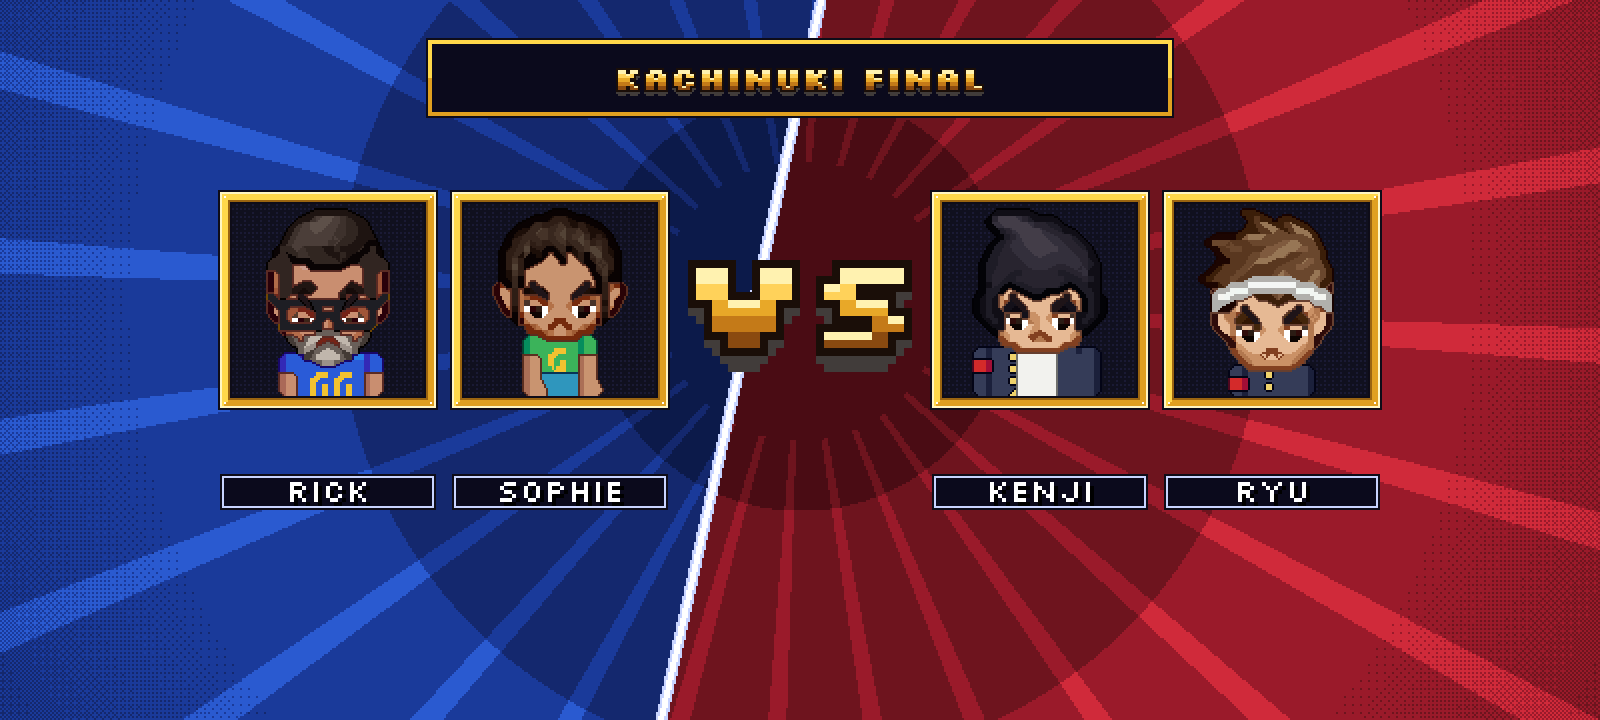
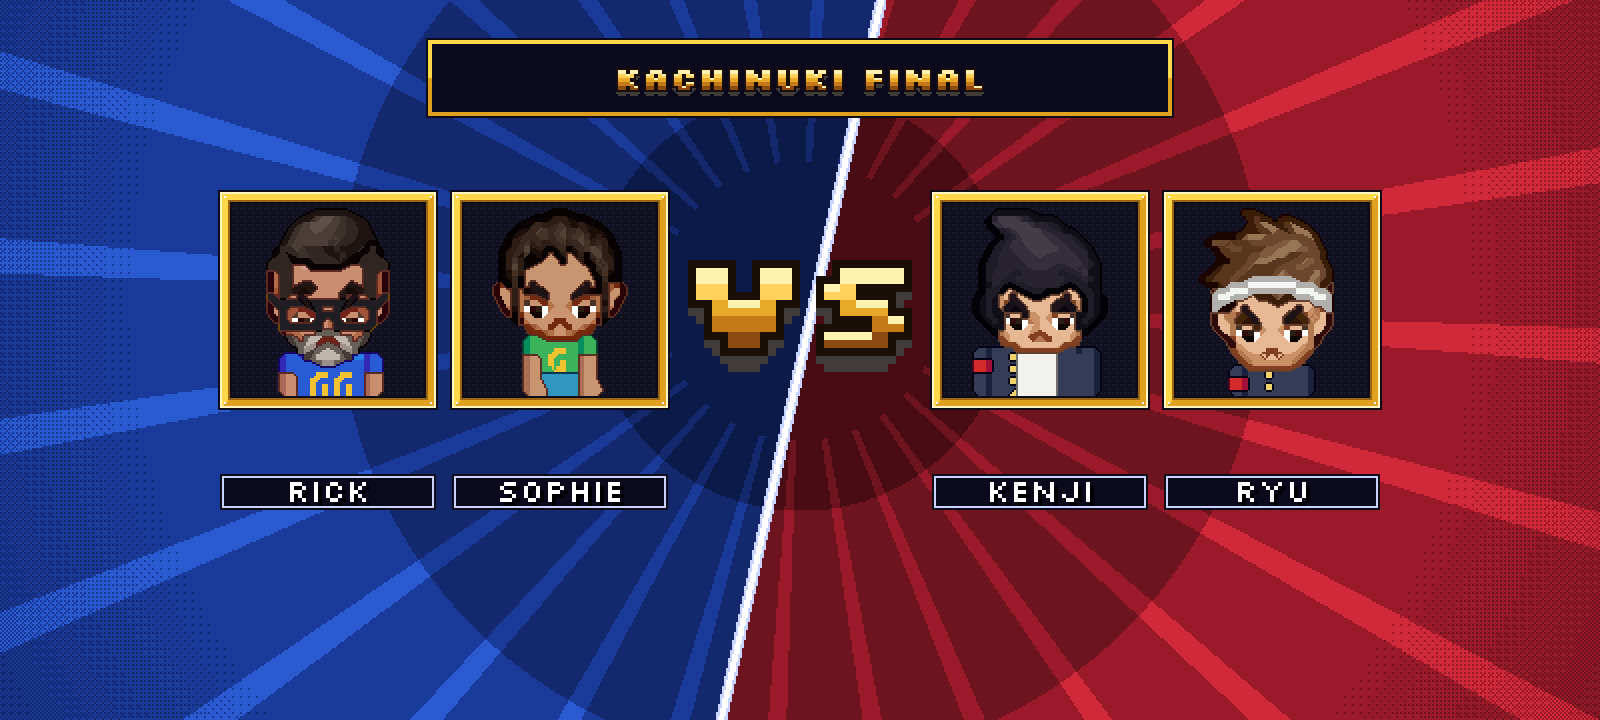
G2: la costura del VS de 4 por el medio de la pantalla
La línea blanca entre los equipos iba de (410, 0) a (330, 360) y cruzaba
la VS corrida a la izquierda. Ahora va de (440, 0) a (360, 360): pasa por
el centro de la imagen y entre la V y la S. Sale en el manifiesto como
costura y la prueba lo exige.

Claude-Session: https://claude.ai/code/session_01JyeqgYaNCz4cU9RBqiqVkS

Changed region(s): [[0.4062, 0.1528, 0.5625, 1.0], [0.5, 0.0, 0.5625, 0.0611]]

diff --git a/src/engine/ui/envoltorio.ts b/src/engine/ui/envoltorio.ts
@@ -674,7 +674,11 @@ export const VS4 = {
   texto: [216, 22, 368, 34] as [number, number, number, number],
   /** la fila de los nombres (y del centro) bajo cada hueco, y la de las frases */
   nombres: 246, frases: 268,
+  /** la costura entre los dos equipos: de arriba a abajo, simétrica sobre el centro de la imagen (pasa por 400, 180) */
+  costura: [[440, 0], [360, 360]] as [[number, number], [number, number]],
 };
+/** La x de la costura en la fila y. */
+export const costuraVs4 = (y: number) => VS4.costura[0][0] + ((VS4.costura[1][0] - VS4.costura[0][0]) * y) / VS4.h;
 
 /**
  * El marco del VS de 4 (dos contra dos, los capitanes de cada lado): la pantalla partida en diagonal, azul a la
@@ -686,8 +690,8 @@ export function marcoVs4(): UiPiece {
   const { w: W, h: H } = VS4;
   const p = new Pix(W, H);
   const AZUL = ['#0c1a4a', '#14286e', '#1a3a9a', '#2a5ad0'], ROJO = ['#4a0c14', '#6e141e', '#9a1a2a', '#d02a3a'];
-  // la costura: de (410, 0) a (330, 360), como el VS de la intro corrido al centro de 800
-  const costura = (y: number) => 410 - (80 * y) / H;
+  // la costura: en diagonal como el VS de la intro, pero simétrica sobre el centro de la imagen
+  const costura = costuraVs4;
   const cx = 400, cy = 150;
   for (let y = 0; y < H; y++) for (let x = 0; x < W; x++) {
     const lado = x < costura(y) ? AZUL : ROJO;
@@ -728,7 +732,7 @@ export function marcoVs4(): UiPiece {
   }
   return {
     name: 'marco_vs_4', frames: [p.r], w: W, h: H,
-    extra: { margen: VS4.margen, huecos: VS4.huecos, vs: VS4.vs, texto: VS4.texto, nombres: VS4.nombres, frases: VS4.frases,
+    extra: { margen: VS4.margen, huecos: VS4.huecos, vs: VS4.vs, texto: VS4.texto, nombres: VS4.nombres, frases: VS4.frases, costura: VS4.costura,
       nota: 'Imagen de 800 x 360 (la parte de 640 de x 80 a 720). Los retratos grandes van en `huecos`: los dos primeros de un equipo, los dos últimos del otro. Los nombres centrados bajo cada hueco en y `nombres`.' },
   };
 }

diff --git a/src/engine/__tests__/g2.test.ts b/src/engine/__tests__/g2.test.ts
@@ -5,7 +5,7 @@ import { migrateFicha, isHuman, type HumanFicha } from '../index';
 import type { Raster } from '../core/raster';
 import { portrait, EXPRESSIONS } from '../kit/portraits';
 import {
-  medallas, banderas, podio, iconosPrueba, tarjetas, marcoVs4, pantallaRetro, iniciales, ICONOS_PRUEBA, BANDERAS, PODIO, VS4, PANTALLAS, TARJETA,
+  medallas, banderas, podio, iconosPrueba, tarjetas, marcoVs4, costuraVs4, pantallaRetro, iniciales, ICONOS_PRUEBA, BANDERAS, PODIO, VS4, PANTALLAS, TARJETA,
   type EquipoTarjeta,
 } from '../ui/envoltorio';
 import { glifosDe, figuraDe, banderaDe, PARTES_ENVOLTORIO } from '../kit/envoltorioKit';
@@ -179,7 +179,12 @@ describe('íconos de prueba, tarjetas, VS de 4 y pantallas', () => {
   it('el VS de 4: dos huecos a cada lado de la costura, oscuros, y el centro libre para la palabra VS', () => {
     const v = marcoVs4(), r = v.frames[0];
     expect([r.w, r.h]).toEqual([800, 360]);
-    const costura = (y: number) => 410 - (80 * y) / 360;
+    const costura = costuraVs4;
+    // la costura pasa por el centro de la imagen y por el centro de la palabra VS
+    expect(costura(180)).toBe(400);
+    const [vx, vy, vw, vh] = VS4.vs;
+    expect(Math.abs(costura(vy + vh / 2) - (vx + vw / 2))).toBeLessThan(8);
+    expect(lum(r, 400, 180)).toBeGreaterThan(200);
     VS4.huecos.forEach(([x, y, w, h], i) => {
       expect([w, h]).toEqual([96, 96]);
       expect(i < 2 ? x + w < costura(y + h) : x > costura(y)).toBe(true);

diff --git a/docs/INTERFAZ.md b/docs/INTERFAZ.md
@@ -54,7 +54,7 @@ Lo que rodea a las pruebas. Va en la misma lista de `ui.interfaz` y sale igual, 
 | `iconos_prueba`, `iconos_prueba_16` | 32 x 32 y 16 x 16, 18 cuadros | Un ícono por prueba en el orden de `orden`: un atleta del kit haciendo la jugada sobre un cuadrito de color. Los de 16 son los mismos reducidos sin mezclar colores |
 | `tarjeta_<equipo>` | 184 x 104 | La tarjeta de la selección: los colores del equipo, su bandera arriba a la izquierda y su escudo a la derecha. El nombre va en `texto` y las 4 caras de 40 en la franja oscura `retratos` |
 | `escudo_<equipo>` | 48 x 56 | El escudo solo, para lo que haga falta |
-| `marco_vs_4` | 800 x 360 | El VS de dos contra dos: partido en diagonal, azul y rojo, con cuatro marcos dorados. Los retratos grandes van en `huecos` (los dos primeros de un equipo), la palabra VS en `vs`, el nombre de la prueba en `texto`, y los nombres en la fila `nombres` |
+| `marco_vs_4` | 800 x 360 | El VS de dos contra dos: partido en diagonal, azul y rojo, con cuatro marcos dorados. Los retratos grandes van en `huecos` (los dos primeros de un equipo), la palabra VS en `vs`, el nombre de la prueba en `texto`, y los nombres en la fila `nombres`. La costura blanca va de (440, 0) a (360, 360): pasa por el centro y cruza la VS por el medio (`costura`) |
 | `pantalla_pausa` | 800 x 360 | Un velo tramado (la pelea se ve por los huecos, sin alfa) con la placa del medio |
 | `pantalla_se_acabo` | 800 x 360 | Para "SE ACABÓ LA VAINA": la ciudad apagada bajo la lluvia, en plata |
 | `pantalla_otra_partidita` | 800 x 360 | Para "¿OTRA PARTIDITA?": rayos de arcade, el piso de cuadrícula y monedas |
